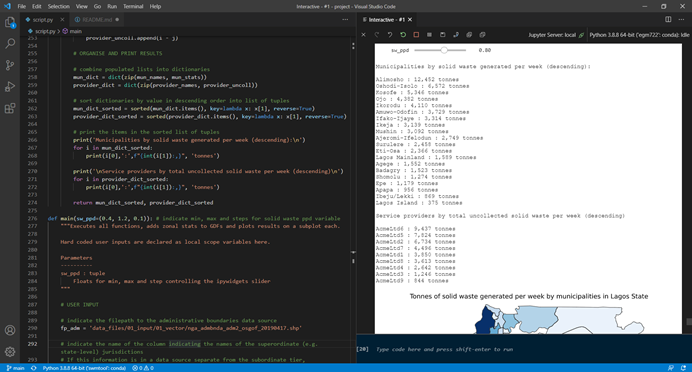
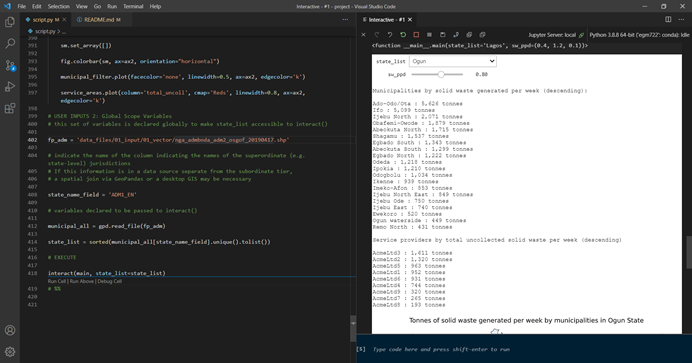
Add drop-down for state selection, update README and screenshots

diff --git a/script.py b/script.py
@@ -20,8 +20,7 @@ The script will return three outputs:
     (2) a list of service providers by amount of uncollected solid waste per week in metric tonnes, in descending order;
     (3) choropleth maps visualizing each list using a scalar colormap (blues for (1) and reds for (2)).
 
-The assumption on the amount of solid waste produced per capity per day can be adjusted by way of an interactive slider widget. Results are then updated in real-time.
-
+A drop-down menu allows for selecting superordinate jurisdictions from a list. The assumption on the amount of solid waste produced per capity per day can be adjusted by way of an interactive slider widget. Results are then updated in real-time.
 """
 
 import numpy as np
@@ -37,7 +36,7 @@ import ipywidgets as widgets
 
 %matplotlib inline
 
-def getVector(fp_adm, fp_service_areas, state_name_field, state_select):
+def getVector(fp_adm, fp_service_areas, state_name_field, state_select='Lagos'):
     """Returns a subset of vector features and the bounding box (study area).
 
     Parameters
@@ -272,36 +271,31 @@ def processStats(service_areas, mun_names, mun_stats, provider_names, provider_s
             print(i[0],':',f"{int(i[1]):,}", 'tonnes')
 
         return mun_dict_sorted, provider_dict_sorted
-        
-def main(sw_ppd=(0.4, 1.2, 0.1)): # indicate min, max and steps for solid waste ppd variable
+
+
+def main(state_list='Lagos', sw_ppd=(0.4, 1.2, 0.1)): 
     """Executes all functions, adds zonal stats to GDFs and plots results on a subplot each.
 
-    Hard coded user inputs are declared as local scope variables here.
+    The majority of hard coded user inputs are declared as enclosing scope variables here.
 
     Parameters
     ----------
+    state_list : str or list
+        Setting the default string value in the function definition causes this state to be active on-load. This is useful when service area source files are not available for all states (selecting such a state will cause and OpenFailedError). When interact() is executed, the list of states is passed to main().
     sw_ppd : tuple
         Floats for min, max and step controlling the ipywidgets slider
     """
 
-    # USER INPUT
+    # USER INPUT 1: Enclosing Scope Variables
 
-    # indicate the filepath to the administrative boundaries data source
-    fp_adm = 'data_files/01_input/01_vector/nga_admbnda_adm2_osgof_20190417.shp'
-
-    # indicate the name of the column indicating the names of the superordinate (e.g. state-level) jurisdictions
-    # If this information is in a data source separate from the subordinate tier,
-    # a spatial join via GeoPandas or a desktop GIS may be necessary
-    state_name_field = 'ADM1_EN'
-
-    # select which superordinate unit (e.g. state) you want to perform the analysis on
-    state_select = 'Lagos'
+    # equates the element from the list passed to main() by interact() with state_select
+    state_select = state_list
 
     # indicate the name of the column containing the names of municipalities
     mun_name_field = 'ADM2_EN'
 
-    # indicating the filepath to the service areas data source
-    fp_service_areas = 'data_files/01_input/01_vector/service_areas_lagos.shp'
+    # indicating the filepath to the service areas data source(s)
+    fp_service_areas = 'data_files/01_input/01_vector/service_areas_' + state_select.lower() + '.shp'
 
     # indicating the name of the column containing the names of service providers;
     provider_name_field = 'psp_name'
@@ -402,5 +396,25 @@ def main(sw_ppd=(0.4, 1.2, 0.1)): # indicate min, max and steps for solid waste 
 
     service_areas.plot(column='total_uncoll', cmap='Reds', linewidth=0.8, ax=ax2, edgecolor='k')
 
-interact(main)
+# USER INPUTS 2: Global Scope Variables
+# this set of variables is declared globally to make state_list accessible to interact()
+
+fp_adm = 'data_files/01_input/01_vector/nga_admbnda_adm2_osgof_20190417.shp'
+
+# indicate the name of the column indicating the names of the superordinate (e.g. state-level) jurisdictions
+# If this information is in a data source separate from the subordinate tier,
+# a spatial join via GeoPandas or a desktop GIS may be necessary
+
+state_name_field = 'ADM1_EN'
+
+# variables declared to be passed to interact()
+
+municipal_all = gpd.read_file(fp_adm)
+
+state_list = sorted(municipal_all[state_name_field].unique().tolist())
+
+# EXECUTE
+
+interact(main, state_list=state_list)
 # %%
+

diff --git a/README.md b/README.md
@@ -3,7 +3,9 @@
 
 This script will compute two statistics (both in metric tonnes): the amount of solid waste generated per week per municipal jurisdiction, and the amount of uncollected solid waste generated in each 'service area', i.e. the area of a municipal jurisdiction for which a service provider (e.g. contractor or municipal department) provides solid waste collection services. 
 
-Both statitistcs are presented in a rank-ordered list and as a choropleth map. An interactive slider allows for adjusting the assumption on solid waste generated per capita per day. Both lists and maps are then updated in real-time. The example below shows the outputs for Lagos State in Nigeria, using dummy data for service areas.
+Both statitistcs are presented in a rank-ordered list and as a choropleth map. The example below shows the outputs for Lagos State in Nigeria, using dummy data with respect to service areas.
+
+**Results updated in real-time:** A **drop-down menu** allows for the superordinate jurisdiction (e.g. the state-level) to be selected. A **slider** allows for assumptions on the amount of solid waste generated per capita per day (in kilograms) to be adjusted interactively. Both lists and maps are then updated in real-time.
 
 ![Screen capture of outputs 1 and 2](output1and2.png)
 ![Screen capture of output 3](output3.png)
@@ -39,10 +41,6 @@ To ensure access to these packages and avoid [dependency hell](https://en.wikipe
 
 After [forking](https://docs.github.com/en/github/getting-started-with-github/fork-a-repo) this repo or downloading the .zip, open Navigator, click on the **Import** button at the bottom of the **Environments** tab, navigate to the `environment.yml` file in the root folder of your local repo, and click **Import**. Setting up the environment with all its packages and dependencies may take a few minutes.
 
-conda install ipywidgets
-
-jupyter nbextension enable --py widgetsnbextension
-
 ## Running the script
 
 #### Required source files
@@ -52,23 +50,29 @@ The script requires three source files:
 1. a vector source in EPSG:4326 indicating the administrative boundaries for a superordinate sub-national government tier (e.g. the state level) and a second subordinate tier (e.g. the municipal level):
  > the present sample script uses the administrative boundaries for Nigeria available at [humdata.org](https://data.humdata.org/dataset/nga-administrative-boundaries);
 2. another vector source in EPSG:4326 representing service areas including an attribute field or column indicating the total amount of solid waste collected per week by each contractor/service provider in metric tonnes:
- > the present sample script uses dummy polygons and hypothetical collection totals for Lagos State assuming a 21% collection rate. A second shapefile containing dummy data for Ogun State is available in the `data_files` folder as well, demonstrating how the script can be quickly run on any jurisdiction;        
+ > the present sample script uses dummy polygons and hypothetical collection totals for Lagos State assuming a 21% collection rate. A second shapefile containing dummy data for Ogun State is available in the `data_files` folder as well. **Switch between Lagos and Ogun in the drop-down menu** to demonstrate how the script can be quickly run on any jurisdiction;       
 3. the pop GeoTIFF of the CIESIN [High-Resolution Settlements Layer (HRSL)](https://ciesin.columbia.edu/data/hrsl/#data) providing the number of persons estimated to haved lived in each 1 arc-second pixel (roughly 30m) in 2015, available for roughly 30 countries in Africa, Asia and Latin America, **or** the [Gridded World Population](https://sedac.ciesin.columbia.edu/data/collection/gpw-v4) layer which has global coverage, covers 5 year periods from 2000 to 2020 but only has a 30 arc-second resolution (roughly 1km).
  > the present sample script uses the HRSL for Nigeria available [here](https://ciesin.columbia.edu/data/hrsl/#data).
 
 #### Required script adjustments
 
-The script will need to be adjusted in the `# USER INPUTS` section to specify data sources and adjust variables according to context. These are:
+As part of the `main()` function definition, two default values need to be adjusted:
 
-1. the `fp_adm` variable indicating the filepath to the administrative boundaries data source;
-2. the `state_name_field` variable indicating the name of the column containing the names of the superordinate (e.g. state-level) jurisdictions. If this information is in a data source separate from the subordinate tier, a spatial join via GeoPandas or a desktop GIS may be necessary;
-3. the `state_select` variable to select which state you want to perform the analysis on (bear in mind that `fp_service_areas` needs to be adjusted then as well);
-4. the `mun_name_field` variable indicating the name of the column containing the names of municipalities;
-5. the `fp_service_areas` variable indicating the filepath to the service areas data source;
-6. the `provider_name_field` variable indicating the name of the column containing the names of service providers;
-7. the `provider_coll_field` variable indicating the name of the column containing the weekly collection totals reported
-8. the `fp_raster` variable indicating the filepath to the raster data source;
-9. the `sw_ppd` min, max and step floats passed to the `main()` function indicating the amount of solid waste generated per capita per day in kilograms, according to your particular context (the map annotation will be adjusted automatically)
+1. the `state_list` default value which indicates the state to be selected on-load. Setting this is useful when service area data sources are not available for all states, as in the case of the sample data. Selecting such a state, or having the first state in the list be selected automatically, will cause an `OpenFailedError`;
+2. the `sw_ppd` _min_, _max_ and _step_ floats indicating the amount of solid waste generated per capita per day in kilograms, according to your particular context (the map annotation will be adjusted automatically).
+
+Enclosing scope variables will need to be adjusted in the `USER INPUTS 1` section. These are:
+
+3. the `mun_name_field` variable indicating the name of the column containing the names of municipalities;
+4. the `fp_service_areas` variable indicating the file path to the service areas data sources - the sample data appends '_statename.shp' to 'service_areas' to construct file names;
+5. the `provider_name_field` variable indicating the name of the column containing the names of service providers;
+6. the `provider_coll_field` variable indicating the name of the column containing the weekly collection totals reported;
+7. the `fp_raster` variable indicating the filepath to the raster data source;
+
+Global scope variables will need to be adjusted in the `USER INPUTS 2` section, namely:
+
+8. the `fp_adm` variable indicating the filepath to the administrative boundaries data source;
+9. the `state_name_field` variable indicating the name of the column containing the names of the superordinate (e.g. state-level) jurisdictions. If this information is in a data source separate from the subordinate tier, a spatial join via GeoPandas or a desktop GIS may be necessary.
 
 #### Optional customization
 
@@ -100,7 +104,7 @@ jupyter-notebook script.ipynb
 ```
 The notebook will open in your browser. Click inside the only cell and hit `Shift + Enter` to run the script and have the slider and results displayed below.
 
-**Note**: The  standard interactive ipython interpreter accessed through the command prompt (`ipython -i script.py`) is not able to dynamically handle _ipywidgets_. It is therefore necessary to use one of the two options described above to run the script.
+**Note**: The  standard interactive ipython interpreter accessed through the command prompt (`ipython -i script.py`) is not able to dynamically handle _ipywidgets_. It is therefore necessary to use one of the two options described above to run the script and avail of the interactive features.
 
 #### Expected Outputs
 
@@ -108,6 +112,8 @@ The script will return three outputs:
 1. a list of municipalities by amount of solid waste generated per week in metric tonnes, in descending order;
 2. a list of service providers by amount of uncollected solid waste per week in metric tonnes, in descending order;
 3. choropleth maps visualizing each list using a scalar colormap (blues for (1) and reds for (2)).
+
+A drop-down menu will allow for selecting superordinate jurisdictions whereas a slider will allow for adjusting assumptions on the amount of solid waste generated per capita per day in kilograms.
 
 ## Release History
 
